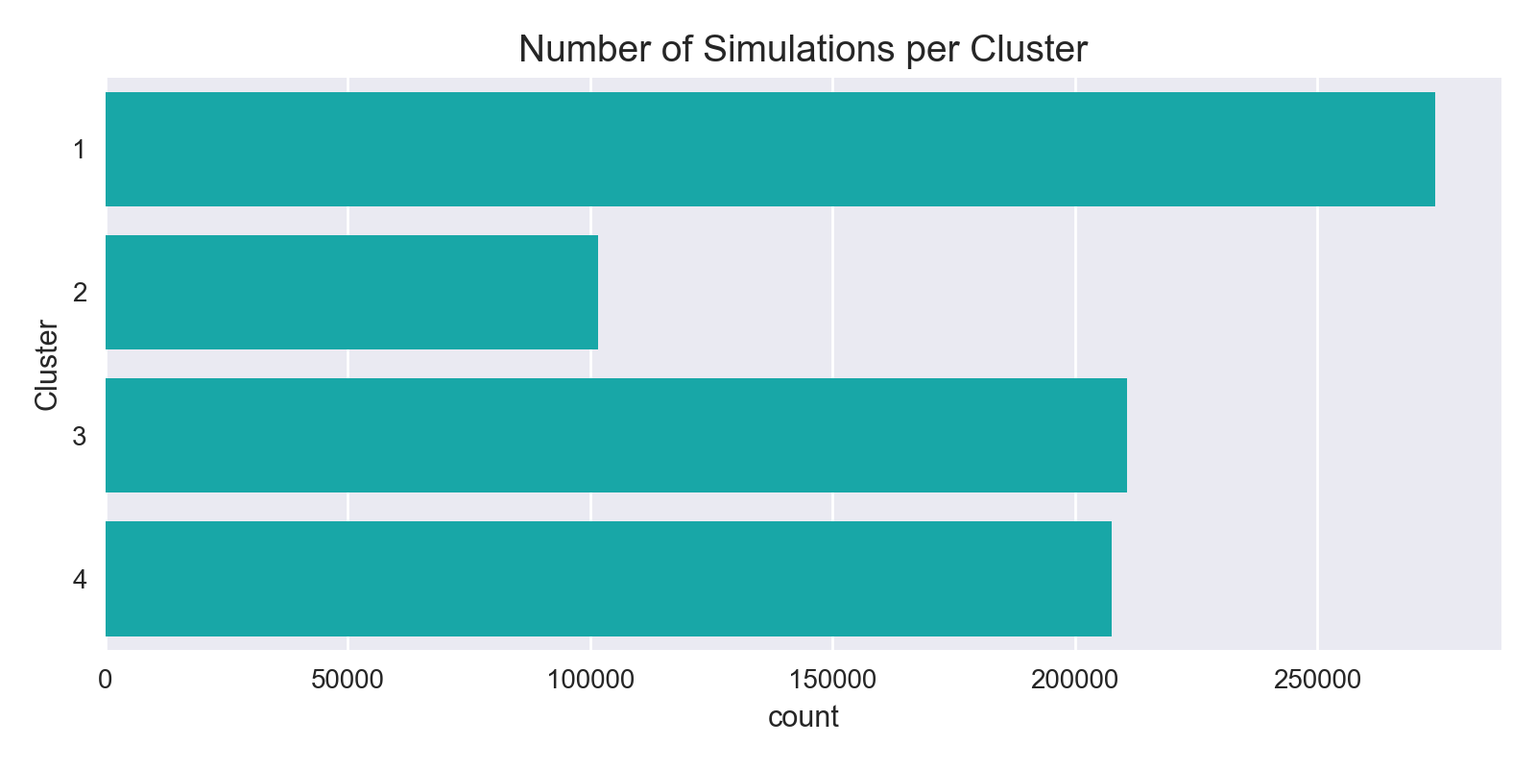
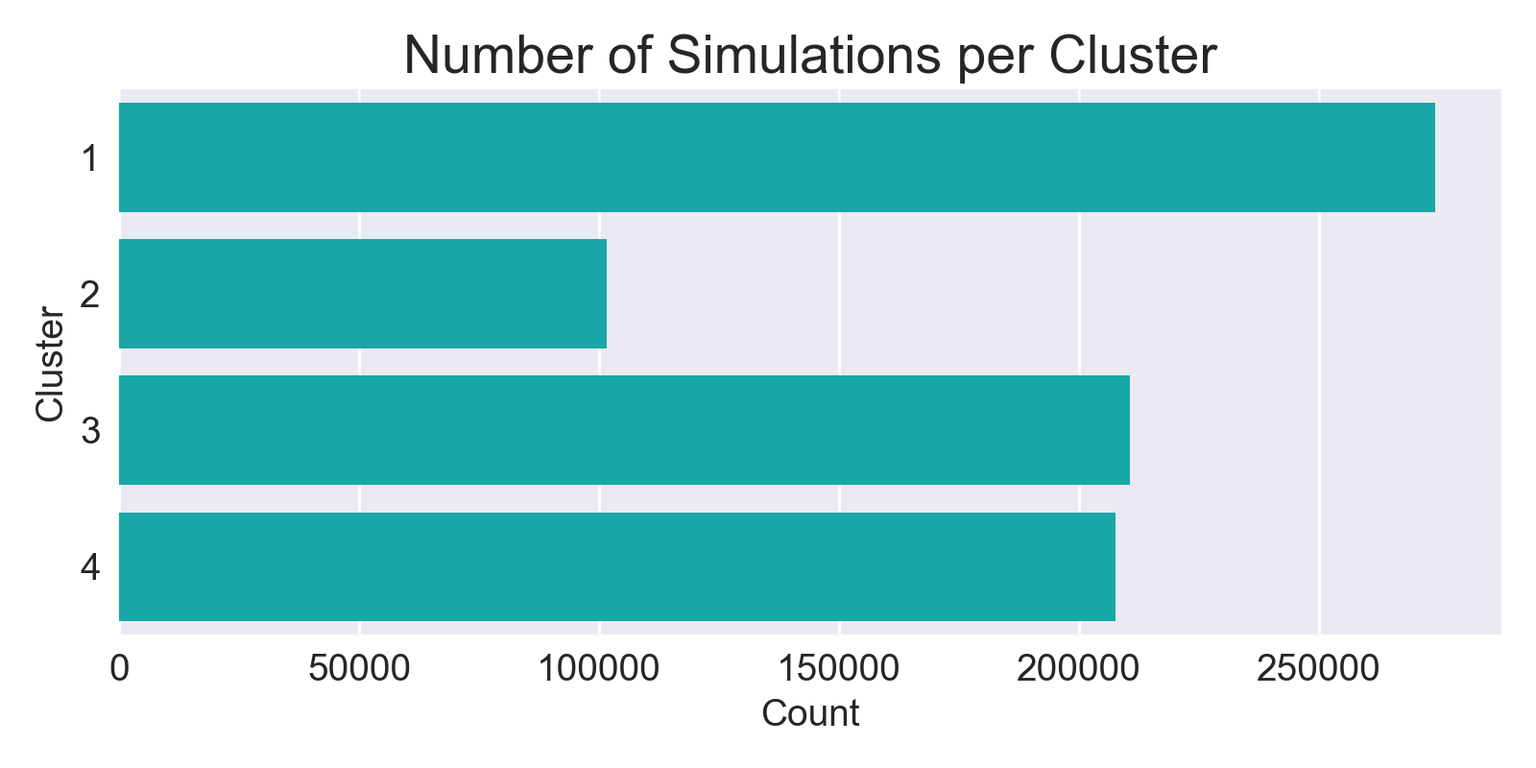
updates to app and readme

Changed region(s): [[0.0, 0.0312, 0.9375, 0.9688], [0.8125, 0.8438, 0.9062, 0.9062]]

diff --git a/web_app/templates/index.html b/web_app/templates/index.html
@@ -261,12 +261,12 @@
 
       <div class="container">
         <h4>Model Development</h4>
-        <p>Because HOMER does not currently have a way of tracking which of its software users have become microgrid implementers, I explored various unsupervised clustering algorithms to model the underlying structure of the data. KMeans is a common clustering algorithm that groups data according to existing similarities. However, because the similarity metric used in KMeans is the computed euclidean distance between each data point and the centroids of each cluster, the KMeans algorithm is not appropriate for non-numerical data. A more appropriate clustering algorithm is KModes. KModes is an extension of KMeans, however, instead of calculating distance, it quantifies the total number of mismatched categories between two objects: the small the number, the more similar the two objects. In addition, KModes uses modes instead of means, in which the mode is a vector of elements that minimizes the dissimilarities between the vector and an individual data point.</p>
-        <p>Other unsupervised clustering algorithms were also tested on the data, including hierarchical agglomerative clustering and gaussian mixture models. To test these algorithms, I used one-hot encoding to further transform the feature space into binary/dummy variables. Both algorithms produced clustered results, however, the interpretability of the clusters was compromised due to the inherent non-numerical nature of the data. For this reason, I settled on KModes as the algorithm to formulate my findings. For a deep dive into KModes clustering, check out Zhexue Huang's excellent <a href="http://arbor.ee.ntu.edu.tw/~chyun/dmpaper/huanet98.pdf">research paper</a> on the topic.</p>
+        <p>Because HOMER does not currently have a way of tracking which of its software users have become microgrid implementers, I explored various unsupervised clustering algorithms to model the underlying structure of the data. K-means is a common clustering algorithm that groups data according to existing similarities. However, because the similarity metric used in k-means is the computed euclidean distance between each data point and the centroids of each cluster, the k-means algorithm is not appropriate for non-numerical data. A more appropriate clustering algorithm is k-modes. K-modes is an extension of k-means, however, instead of calculating distance, it quantifies the total number of mismatched categories between two objects: the small the number, the more similar the two objects. In addition, k-modes uses modes instead of means, in which the mode is a vector of elements that minimizes the dissimilarities between the vector and an individual data point.</p>
+        <p>Other unsupervised clustering algorithms were also tested on the data, including hierarchical agglomerative clustering and gaussian mixture models. To test these algorithms, I used one-hot encoding to further transform the feature space into binary/dummy variables. Both algorithms produced clustered results, however, the interpretability of the clusters was compromised due to the inherent non-numerical nature of the data. For this reason, I settled on k-modes as the algorithm to formulate my findings. For a deep dive into k-modes clustering, check out Zhexue Huang's excellent <a href="http://arbor.ee.ntu.edu.tw/~chyun/dmpaper/huanet98.pdf" target="_blank">research paper</a> on the topic.</p>
       </div>
 
       <div class="container">
-        <p>Once the cluster algorithm was selected, I needed to determine the appropriate amount of clusters to segment the data. In KMeans clustering, it is common to perform a dimensionality reduction technique such as principle component analysis (PCA) to plot the resulting clusters in a two dimensional space to visually confirm clustering is taking place. However, because applying PCA to categorical data is generally regarded as unwise, I instead opted to calcuate a silhouette score for different numbers of clusters based on a hamming distance metric to settle on the most appropriate number of customer segments. When calcuating the silhouette coefficient, the best possible value is 1, indicating all data points are perfected grouped and there are no overlapping clusters. A coefficient of 0 implies overlapping clusters, and negative values suggest that a sample has been assigned to the wrong cluster. Based on the below plot of scores, I decided to cluster my data into four clusters. I selected k=4 because the silhouette score was the highest for this number of clusters, and it made intuitive sense based on my understanding of HOMER's customer base.</p>
+        <p>Once the cluster algorithm was selected, I needed to determine the appropriate amount of clusters to segment the data. In k-means clustering, it is common to perform a dimensionality reduction technique such as principle component analysis (PCA) to plot the resulting clusters in a two dimensional space to visually confirm clustering is taking place. However, because applying PCA to categorical data is generally regarded as unwise, I instead opted to calcuate a silhouette score for different numbers of clusters based on a hamming distance metric to settle on the most appropriate number of customer segments. When calculating the silhouette coefficient, the best possible value is 1, indicating all data points are perfectly grouped and there are no overlapping clusters. A coefficient of 0 implies overlapping clusters, and negative values suggest that a sample has been assigned to the wrong cluster. Based on the below plot of scores, I decided to cluster my data into four clusters. I selected k=4 because the silhouette score was the highest for this number of clusters, and it made intuitive sense based on my understanding of HOMER's customer base.</p>
       </div>
 
       <div class="container">
@@ -274,7 +274,7 @@
       </div>
 
       <div class="container">
-        <p>After selecting the appropriate number of clusters, I fitted the KModes clustering algorithm to the data and assigned cluster labels to each simulation. I then performed exploratory data analysis to begin extracting meaningful business intelligence from the clusters.</p>
+        <p>After selecting the appropriate number of clusters, I fitted the k-modes clustering algorithm to the data and assigned cluster labels to each simulation. I then performed exploratory data analysis to begin extracting meaningful business intelligence from the clusters.</p>
       </div>
     </section>
 
@@ -294,7 +294,7 @@
         </div>
 
         <div>
-          After assigning cluster labels to each user using KModes, we can see that the total number of simulations is fairly well distributed among the four clusters, with a larger share going to Cluster 1 and a smaller share to Cluster 2.</p>
+          After assigning cluster labels to each user using k-modes, we can see that the total number of simulations is fairly well distributed among the four clusters, with a larger share going to Cluster 1 and a smaller share to Cluster 2.</p>
           <div class="container">
             <img src="../static/img/cluster_counts.png" style="float: left; width: 50%; margin-right: 0%; margin-bottom: 0.5em;">
           </div>
@@ -404,7 +404,7 @@
         <a href="#">Back to top</a>
         <h4>Make a choropleth map of the number of software simulations by county and cluster in the United States</h4>
         <p>Which cluster do you want to map? Select <b>"All"</b> from the drop down list if you want to map all clusters.</p>
-        <form action='/show_choro_map' target="_blank" method='POST' id='submitform'>
+        <form action='/choro_map' target="_blank" method='POST' id='submitform'>
           <select name="input_num_choro">
             <option value="1">1 - Students / Weekend Warriors</option>
             <option value="2">2 - Professionals</option>
@@ -421,7 +421,7 @@
       <div class="container">
         <h2>Marker Cluster Map Creator</h2>
         <h4>Make a marker cluster map of the number of software simulations by country and cluster</h4>
-        <form action='/show_marker_map' target="_blank" method='POST' id='submitform'>
+        <form action='/marker_map' target="_blank" method='POST' id='submitform'>
           <p>Select a country:</p>
           <select name="input_country">
           	<option value="AF">Afghanistan</option>

diff --git a/homer_viz.py b/homer_viz.py
@@ -17,9 +17,10 @@ def bar_charts(df):
     for ax, col in zip(axes.ravel(), cols):
         grp = df.groupby('Cluster')[col].mean()
         ax.bar(clusters, grp, alpha=0.4, color='b')
-        ax.set_xlabel('Cluster')
-        ax.set_ylabel('Average ({})'.format(col))
+        ax.set_xlabel('')
+        ax.set_ylabel('Average ({})'.format(col), fontsize=16)
         ax.set_xticks(range(1, 5))
+        ax.tick_params(labelsize=14)
         ax.axhline(y=np.mean(df[col]), color='red', linestyle='--')
 
     fig.tight_layout()
@@ -53,7 +54,11 @@ def count_sims_cluster(df):
     fig = plt.figure(figsize=(8,4))
     ax = fig.add_subplot(111)
     sns.countplot(y='Cluster', data=df, ax=ax, color="c")
-    plt.title('Number of Simulations per Cluster', fontsize=14)
+
+    ax.set_xlabel('Count', fontsize=14)
+    ax.set_ylabel('Cluster', fontsize=14)
+    ax.tick_params(labelsize=14)
+    plt.title('Number of Simulations per Cluster', fontsize=20)
 
     plt.tight_layout()
     plt.savefig('img/cluster_counts.png', dpi=200)
@@ -64,7 +69,7 @@ def count_user_cluster(df):
     ax = fig.add_subplot(111)
     sns.countplot(x='Cluster', hue='UserRole', data=df, palette="Greens_d", ax=ax)
 
-    plt.title('Number of Simulations by Cluster and User Role', fontsize=14)
+    plt.title('Number of Simulations by Cluster and User Role', fontsize=20)
     plt.show()
 
 def hist_sims(df):
@@ -149,12 +154,14 @@ def cluster_bars_org(df):
     fig, ax = plt.subplots(1, 1, figsize=(10, 4))
     agg.plot(kind='bar', ax=ax).set_ylabel('Simulations')
 
-    plt.title('Number of Simulations by Cluster and Organization Type', fontsize=14)
+    # ax.set_yticklabels(ax.get_yticklabels(), fontsize=14)
+
+    plt.title('Number of Simulations by Cluster and Organization Type', fontsize=16)
 
     plt.xticks(rotation='horizontal')
-    ax.legend(loc='upper center', bbox_to_anchor=(0.5, -0.05),
-          fancybox=True, shadow=True, ncol=6)
+    ax.legend(loc='upper center', bbox_to_anchor=(0.5, -0.05), fancybox=True, shadow=True, ncol=6)
 
+    # ax.tick_params(labelsize=14)
     ax.set_xlabel('')
     plt.savefig('img/sims_by_cluster_org.png', dpi=200)
     plt.close()
@@ -163,17 +170,19 @@ def cluster_bars_user(df):
     # categorical vs categorical vs numeric
     agg = df.groupby(['Cluster', 'UserRole'])['UserRole'].count()
     agg = agg.unstack(level='UserRole')
-    fig, ax = plt.subplots(1, 1, figsize=(10, 4))
-    agg.plot(kind='bar', ax=ax).set_ylabel('Simulations')
+    fig, ax = plt.subplots(1, 1, figsize=(10, 5))
+    agg.plot(kind='bar', ax=ax).set_ylabel('Simulations', fontsize=20)
 
-    plt.title('Number of Simulations by Cluster and User Role', fontsize=14)
+    plt.title('Number of Simulations by Cluster and User Role', fontsize=24)
 
+    ax.tick_params(labelsize=20)
     plt.xticks(rotation='horizontal')
-    ax.legend(loc='upper center', bbox_to_anchor=(0.5, -0.05),
-          fancybox=True, shadow=True, ncol=4)
+    # ax.legend(loc='upper center', bbox_to_anchor=(0.5, -0.05), fontsize=16, fancybox=True, shadow=True, ncol=4)
 
     ax.set_xlabel('')
-    plt.savefig('img/sims_by_cluster_user.png', dpi=200)
+    plt.legend(loc='best', fontsize=18)
+    plt.tight_layout()
+    plt.savefig('img/sims_by_cluster_user.png', dpi=600)
     plt.close()
 
 def marker_map(df, c_num=0):
@@ -274,5 +283,5 @@ if __name__ == '__main__':
     # weekday_weekend(df)
     # choropleth_map(df_usa)
     # marker_cluster_map(df, 'DE', 2)
-    # cluster_bars_user(df)
+    cluster_bars_user(df)
     # cluster_bars_org(df)

diff --git a/web_app/app.py b/web_app/app.py
@@ -1,5 +1,6 @@
 from flask import Flask, request, render_template, send_file
 import pandas as pd
+import numpy as np
 import folium
 app = Flask(__name__)
 
@@ -75,6 +76,9 @@ def choropleth_map(cluster=0):
     simsdata = simsdata.reset_index()
     simsdata.columns = ['ID', 'Number']
 
+    simsrange = np.max(simsdata['Number']) - np.min(simsdata['Number'])
+    threshold_scale = [np.min(simsdata['Number']), simsrange*.2, simsrange*.4, simsrange*.6, simsrange*.8, np.max(simsdata['Number'])]
+
     county_geo = r'../data/us_counties_20m_topo.json'
 
     m = folium.Map(location=[48, -99], zoom_start=4)
@@ -82,13 +86,15 @@ def choropleth_map(cluster=0):
                     data=simsdata,
                     columns=['ID', 'Number'],
                     key_on='feature.id',
+                    threshold_scale=threshold_scale,
                     fill_color='PuRd',
                     fill_opacity=0.7,
                     line_opacity=0.3,
                     legend_name='Number of Simulations',
                     topojson='objects.us_counties_20m')
 
-    m.save('static/img/choro_map.html')
+    # m.save('static/img/choro_map.html')
+    m.save('templates/choro_map.html')
 
 def marker_cluster_map(df, country, c_num):
     df = df[df['Country'] == country]
@@ -112,7 +118,8 @@ def marker_cluster_map(df, country, c_num):
     for idx, (lat, lng) in enumerate(lat_lng):
         folium.Marker(location=[lat, lng]).add_to(marker_cluster)
 
-    m.save('static/img/marker_cluster.html')
+    # m.save('static/img/marker_cluster.html')
+    m.save('templates/marker_cluster.html')
 
 def usersims_by_cluster(df):
     pt = pd.pivot_table(df, values=['Created'], index=['User'], columns=['Cluster'], aggfunc='count', fill_value=0)
@@ -143,21 +150,23 @@ def index():
     return render_template('index.html', user_table=user_table, org_table=org_table, df_gen=df_gen, df_wind=df_wind, df_bat=df_bat, df_pv=df_pv, df_con=df_con, sims_by_cluster=sims_by_cluster)
 
 # choro map page
-@app.route('/show_choro_map', methods=['POST'])
+@app.route('/choro_map', methods=['POST'])
 def show_choro_map():
     cluster = int(request.form['input_num_choro'])
     choropleth_map(cluster)
 
-    return send_file('static/img/choro_map.html')
+    return render_template('choro_map.html')
+    # return send_file('static/img/choro_map.html')
 
 # marker map page
-@app.route('/show_marker_map', methods=['POST'])
+@app.route('/marker_map', methods=['POST'])
 def show_marker_map():
     c_num = int(request.form['input_num_marker'])
     country = str(request.form['input_country'])
     marker_cluster_map(df, country, c_num)
 
-    return send_file('static/img/marker_cluster.html')
+    return render_template('marker_cluster.html')
+    # return send_file('static/img/marker_cluster.html')
 
 if __name__ == '__main__':
     app.run(host='0.0.0.0', port=8105, threaded=True)

diff --git a/README.md b/README.md
@@ -28,16 +28,16 @@ The first step in this process was to understand the data and prepare it for mod
 | FIPS | Federal Information Processing Standards (FIPS) code for U.S.-based simulations | String |
 
 #### Model Development
-Because HOMER does not currently have a way of tracking which of its software users have become microgrid implementers, I explored various unsupervised clustering algorithms to model the underlying structure of the data. KMeans is a common clustering algorithm that groups data according to existing similarities. However, because the similarity metric used in KMeans is the computed euclidean distance between each data point and the centroids of each cluster, the KMeans algorithm is not appropriate for non-numerical data. A more appropriate clustering algorithm is **KModes**. KModes is an extension of KMeans, however, instead of calculating distance, it quantifies the total number of mismatched categories between two objects: the small the number, the more similar the two objects. In addition, KModes uses modes instead of means, in which the mode is a vector of elements that minimizes the dissimilarities between the vector and an individual data point.
+Because HOMER does not currently have a way of tracking which of its software users have become microgrid implementers, I explored various unsupervised clustering algorithms to model the underlying structure of the data. K-means is a common clustering algorithm that groups data according to existing similarities. However, because the similarity metric used in k-means is the computed euclidean distance between each data point and the centroids of each cluster, the k-means algorithm is not appropriate for non-numerical data. A more appropriate clustering algorithm is **k-modes**. K-modes is an extension of k-means, however, instead of calculating distance, it quantifies the total number of mismatched categories between two objects: the small the number, the more similar the two objects. In addition, k-modes uses modes instead of means, in which the mode is a vector of elements that minimizes the dissimilarities between the vector and an individual data point.
 
-Other unsupervised clustering algorithms were also tested on the data, including **hierarchical agglomerative clustering** and **gaussian mixture models**. To test these algorithms, I used one-hot encoding to further transform the feature space into binary/dummy variables. Both algorithms produced clustered results, however, the interpretability of the clusters was compromised due to the inherent non-numerical nature of the data. For this reason, I settled on KModes as the algorithm to formulate my findings. You can read more about KModes clustering in Zhexue Huang's research paper on the topic.
+Other unsupervised clustering algorithms were also tested on the data, including **hierarchical agglomerative clustering** and **gaussian mixture models**. To test these algorithms, I used one-hot encoding to further transform the feature space into binary/dummy variables. Both algorithms produced clustered results, however, the interpretability of the clusters was compromised due to the inherent non-numerical nature of the data. For this reason, I settled on k-modes as the algorithm to formulate my findings. You can read more about k-modes clustering in Zhexue Huang's research paper on the topic.
 
-Once the cluster algorithm was selected, I needed to determine the appropriate amount of clusters to segment the data. In KMeans clustering, it is common to perform a dimensionality reduction technique such as principle component analysis (PCA) to plot the resulting clusters in a two dimensional space to visually confirm clustering is taking place. However, because applying PCA to categorical data is generally regarded as unwise, I instead opted to calculate a silhouette score based on a hamming distance metric for a range of cluster quantities to settle on the most appropriate number of customer segments. When calculating the silhouette coefficient, the best possible value is 1, indicating all data points are perfected grouped and there are no overlapping clusters. A coefficient of 0 implies overlapping clusters, and negative values suggest that a sample has been assigned to the wrong cluster. Based on the below graphics, I decided to cluster my data into four clusters. I selected k=4 because the silhouette score was only slightly lower than k=3, and based on my conversations with HOMER four customer segments fit aligned closely with expected user types. Furthermore, while the silhouette score for k=7 was also similar, I ultimately decided an analysis of seven customer segments would be more appropriate for future analysis.
+Once the cluster algorithm was selected, I needed to determine the appropriate amount of clusters to segment the data. In k-means clustering, it is common to perform a dimensionality reduction technique such as principle component analysis (PCA) to plot the resulting clusters in a two dimensional space to visually confirm clustering is taking place. However, because applying PCA to categorical data is generally regarded as unwise, I instead opted to calculate a silhouette score based on a hamming distance metric for a range of cluster quantities to settle on the most appropriate number of customer segments.  When calculating the silhouette coefficient, the best possible value is 1, indicating all data points are perfectly grouped and there are no overlapping clusters. A coefficient of 0 implies overlapping clusters, and negative values suggest that a sample has been assigned to the wrong cluster. Based on the below plot of scores, I decided to cluster my data into four clusters. I selected k=4 because the silhouette score was the highest for this number of clusters, and it made intuitive sense based on my understanding of HOMER's customer base.
 
 <img src="img/silhouette/sil_v_clust_KM.png" alt="sil_v_clust" width="525" height="425">
 <!-- ![silhouette_vs_k](img/silhouette/sil_v_clust_KM.png) -->
 
-After selecting the appropriate number of clusters, I fitted the KModes clustering algorithm to the data and assigned cluster labels to each simulation. I then performed exploratory data analysis to begin extracting meaningful business intelligence from the clusters.
+After selecting the appropriate number of clusters, I fitted the k-modes clustering algorithm to the data and assigned cluster labels to each simulation. I then performed exploratory data analysis to begin extracting meaningful business intelligence from the clusters.
 
 #### Exploratory Data Analysis
 Before examining each cluster, I gathered a baseline understanding of the user make-up of the simulations. The breakdown of simulations by user type is shown below.
@@ -60,24 +60,24 @@ Vendor     | 54742|  6.89
 Public     | 17726|  2.23
 Service    | 16545|  2.08
 
-After assigning cluster labels to each user using KModes, we can see that the total number of simulations is fairly well distributed among the four clusters, with a larger share going to Cluster 1 and a smaller share to Cluster 2.
+After assigning cluster labels to each user using k-modes, we can see that the total number of simulations is fairly well distributed among the four clusters, with a larger share going to Cluster 1 and a smaller share to Cluster 2.
 
-<img src="img/cluster_counts.png" alt="cluster_counts" width="450" height="225">
+<img src="img/cluster_counts.png" alt="cluster_counts" width="500" height="250">
 <!-- ![cluster_counts](img/cluster_counts.png) -->
 
 Looking at the distribution of user roles in each cluster, we can see that the model has split the user roles into particular clusters, but not exclusively into just one. Academic users are the majority it in Clusters 1 and 4, and technical users are more prevalent Clusters 2 and 3.
 
-<img src="img/sims_by_cluster_user.png" alt="sims_by_cluster_user" width="500" height="225">
+<img src="img/sims_by_cluster_user.png" alt="sims_by_cluster_user" width="600" height="250">
 <!-- ![sims_by_cluster_user](img/sims_by_cluster_user.png) -->
 
 Similarly, the distribution of organization type among the clusters aligns closely with the user role distributions. Academic institutions are the majority in Clusters 1 and 4, and engineering firms are most common in Clusters 2 and 3.
 
-<img src="img/sims_by_cluster_org.png" alt="sims_by_cluster_org" width="500" height="225">
+<img src="img/sims_by_cluster_org.png" alt="sims_by_cluster_org" width="600" height="250">
 <!-- ![sims_by_cluster_org](img/sims_by_cluster_org.png) -->
 
 To explore and extract additional information from the data, I also created weekday and weekend histograms of the number of simulations per day for each cluster. The resultant graphs suggest similar, but subtle differences between the four groups. While the number of simulations per day is on average highest during the week for all four clusters, we can see from the histograms for Cluster 1 that the frequency of simulations on the weekend does not differ as severely as compared to the other three groups. This could be due to the fact that there is large majority of academic users in this cluster, and students are more likely to run simulations over the weekend for school projects. Building on this analysis, Cluster 4, which also has a majority of academic users and organizations, appears to have relatively high kurtosis due to a few extreme deviations (outliers). While the weekend simulations seem to be infrequent in Cluster 4, there are a handful of days in which the cumulative sum of simulations have reached into the thousands. The true nature of these simulations likely requires further analysis to determine if the simulations are being run with project implementation in mind, or as part of academic research endeavor. Clusters 2 and 3 also suggest minimal weekend software usage, with Cluster 3 depicting a distribution suggestive of more model runs per day.
 
-<img src="img/weekday_weekend.png" alt="weekday_weekend" width="500" height="500">
+<img src="img/weekday_weekend.png" alt="weekday_weekend" width="600" height="600">
 <!-- ![weekday_weekend](img/weekday_weekend.png) -->
 
 Diving deeper into the number of simulations by cluster, the table below provides some insight into the frequency and variability at which users are interacting with the software in each cluster. Users in Cluster 1 have the highest average number of simulations, with Clusters 3 and 4 not far behind. Cluster 1 also has the greatest standard deviation, suggesting users in this cluster have the greatest variability in their interaction with the software. Users in Cluster 2 have the lowest average number of simulations, as well as the smallest standard deviation. It may be appropriate to classify these (on average) technical users as exploring the software's functionality, but not relying on it to extract actionable insights.
@@ -92,7 +92,7 @@ Other important input variables identified by HOMER are whether a user has impor
 
 The below bar graphs show the mean feature usage for imported solar, imported wind, and sample file in each cluster. For imported wind, we see that Cluster 2 simulations are the most likely to import this data, with just over 10 percent of simulations using imported wind data. For imported solar, all four clusters have a similar mean average for importing geographic-specific data. Interestingly enough, Clusters 2 and 3, the groups with the greatest proportion of technical users, have the highest average for using HOMER's sample file to run simulations. While HOMER considers the use of the sample file to be a negative indicator of simulation realness, it should be noted the relative usage in these clusters is still low at 1.25 and 1.75 percent of the time, respectfully.
 
-<img src="img/imports.png" alt="imports" width="500" height="200">
+<img src="img/imports.png" alt="imports" width="600" height="200">
 <!-- ![imports](img/imports.png) -->
 
 HOMER also considers the extent to which a simulation models a variety of microgrid parameters and configurations as a strong indicator of the simulation's realness. For each simulation, a user is able to specify what energy hardware (e.g. batteries, turbines, solar panels, etc.) she would like to model, as well a range of hardware specifications for the software to compare and output an optimized microgrid (optimization is defined by the the lowest net present cost of microgrid system). Per conversations with HOMER, a rough metric to judge a simulation's realness is whether the user provides more than two different hardware specifications to test. For this reason, I crafted a series of features that check whether a user modeled a certain piece of hardware, and if so, if the simulation tested multiple specifications/capacities for that particular hardware category.
@@ -145,7 +145,7 @@ NA   |           13420|             4.89|           85443|            84.05|    
 
 The below table provides an overview of general characteristics observed in each of the four clusters.
 
-<img src="img/icons/cluster_icon_table.jpg" alt="icon_table" width="500" height="300">
+<img src="img/icons/cluster_icon_table.jpg" alt="icon_table" width="600" height="350">
 
 ### Mapping Simulations
 
@@ -161,7 +161,7 @@ Segmenting simulation runs is an important first step in understanding who is us
 ### Technology Stack
 The following software packages and technologies were used in this project.
 
-<img src="img/techstack.png" alt="techstack" width="400" height="425">
+<img src="img/techstack.png" alt="techstack" width="500" height="500">
 <!-- ![tech_stack](img/techstack.png) -->
 
 ### Project Development Outline
@@ -185,7 +185,7 @@ Phase 3: EDA and Modeling - Complete
 - **Work product:** Initial models, visualizations, additional data
 
 Phase 4: Final Model and Feature Importance - Complete
-- Run and save KModes model, append cluster labels to data frame
+- Run and save k-modes model, append cluster labels to data frame
 - Select the proper number of clusters based on silhouette scoring
 - Explore visualizations and feature importance methods for categorical datasets (e.g. Multiple Correspondence Analysis)
 - **Work product:** Working model with supporting visualizations to infer business intelligence
@@ -202,5 +202,5 @@ Please contact me with questions or comments at <sdking49@gmail.com>.
 You can also explore the flask application for this project [here](http://ec2-52-200-8-2.compute-1.amazonaws.com:8105/#).
 
 ### References
-Python implementation of KModes clustering algorithm for categorical data: https://github.com/nicodv/kmodes#id1  
+Python implementation of k-modes clustering algorithm for categorical data: https://github.com/nicodv/kmodes#id1  
 HOMER Energy: http://homerenergy.com/
